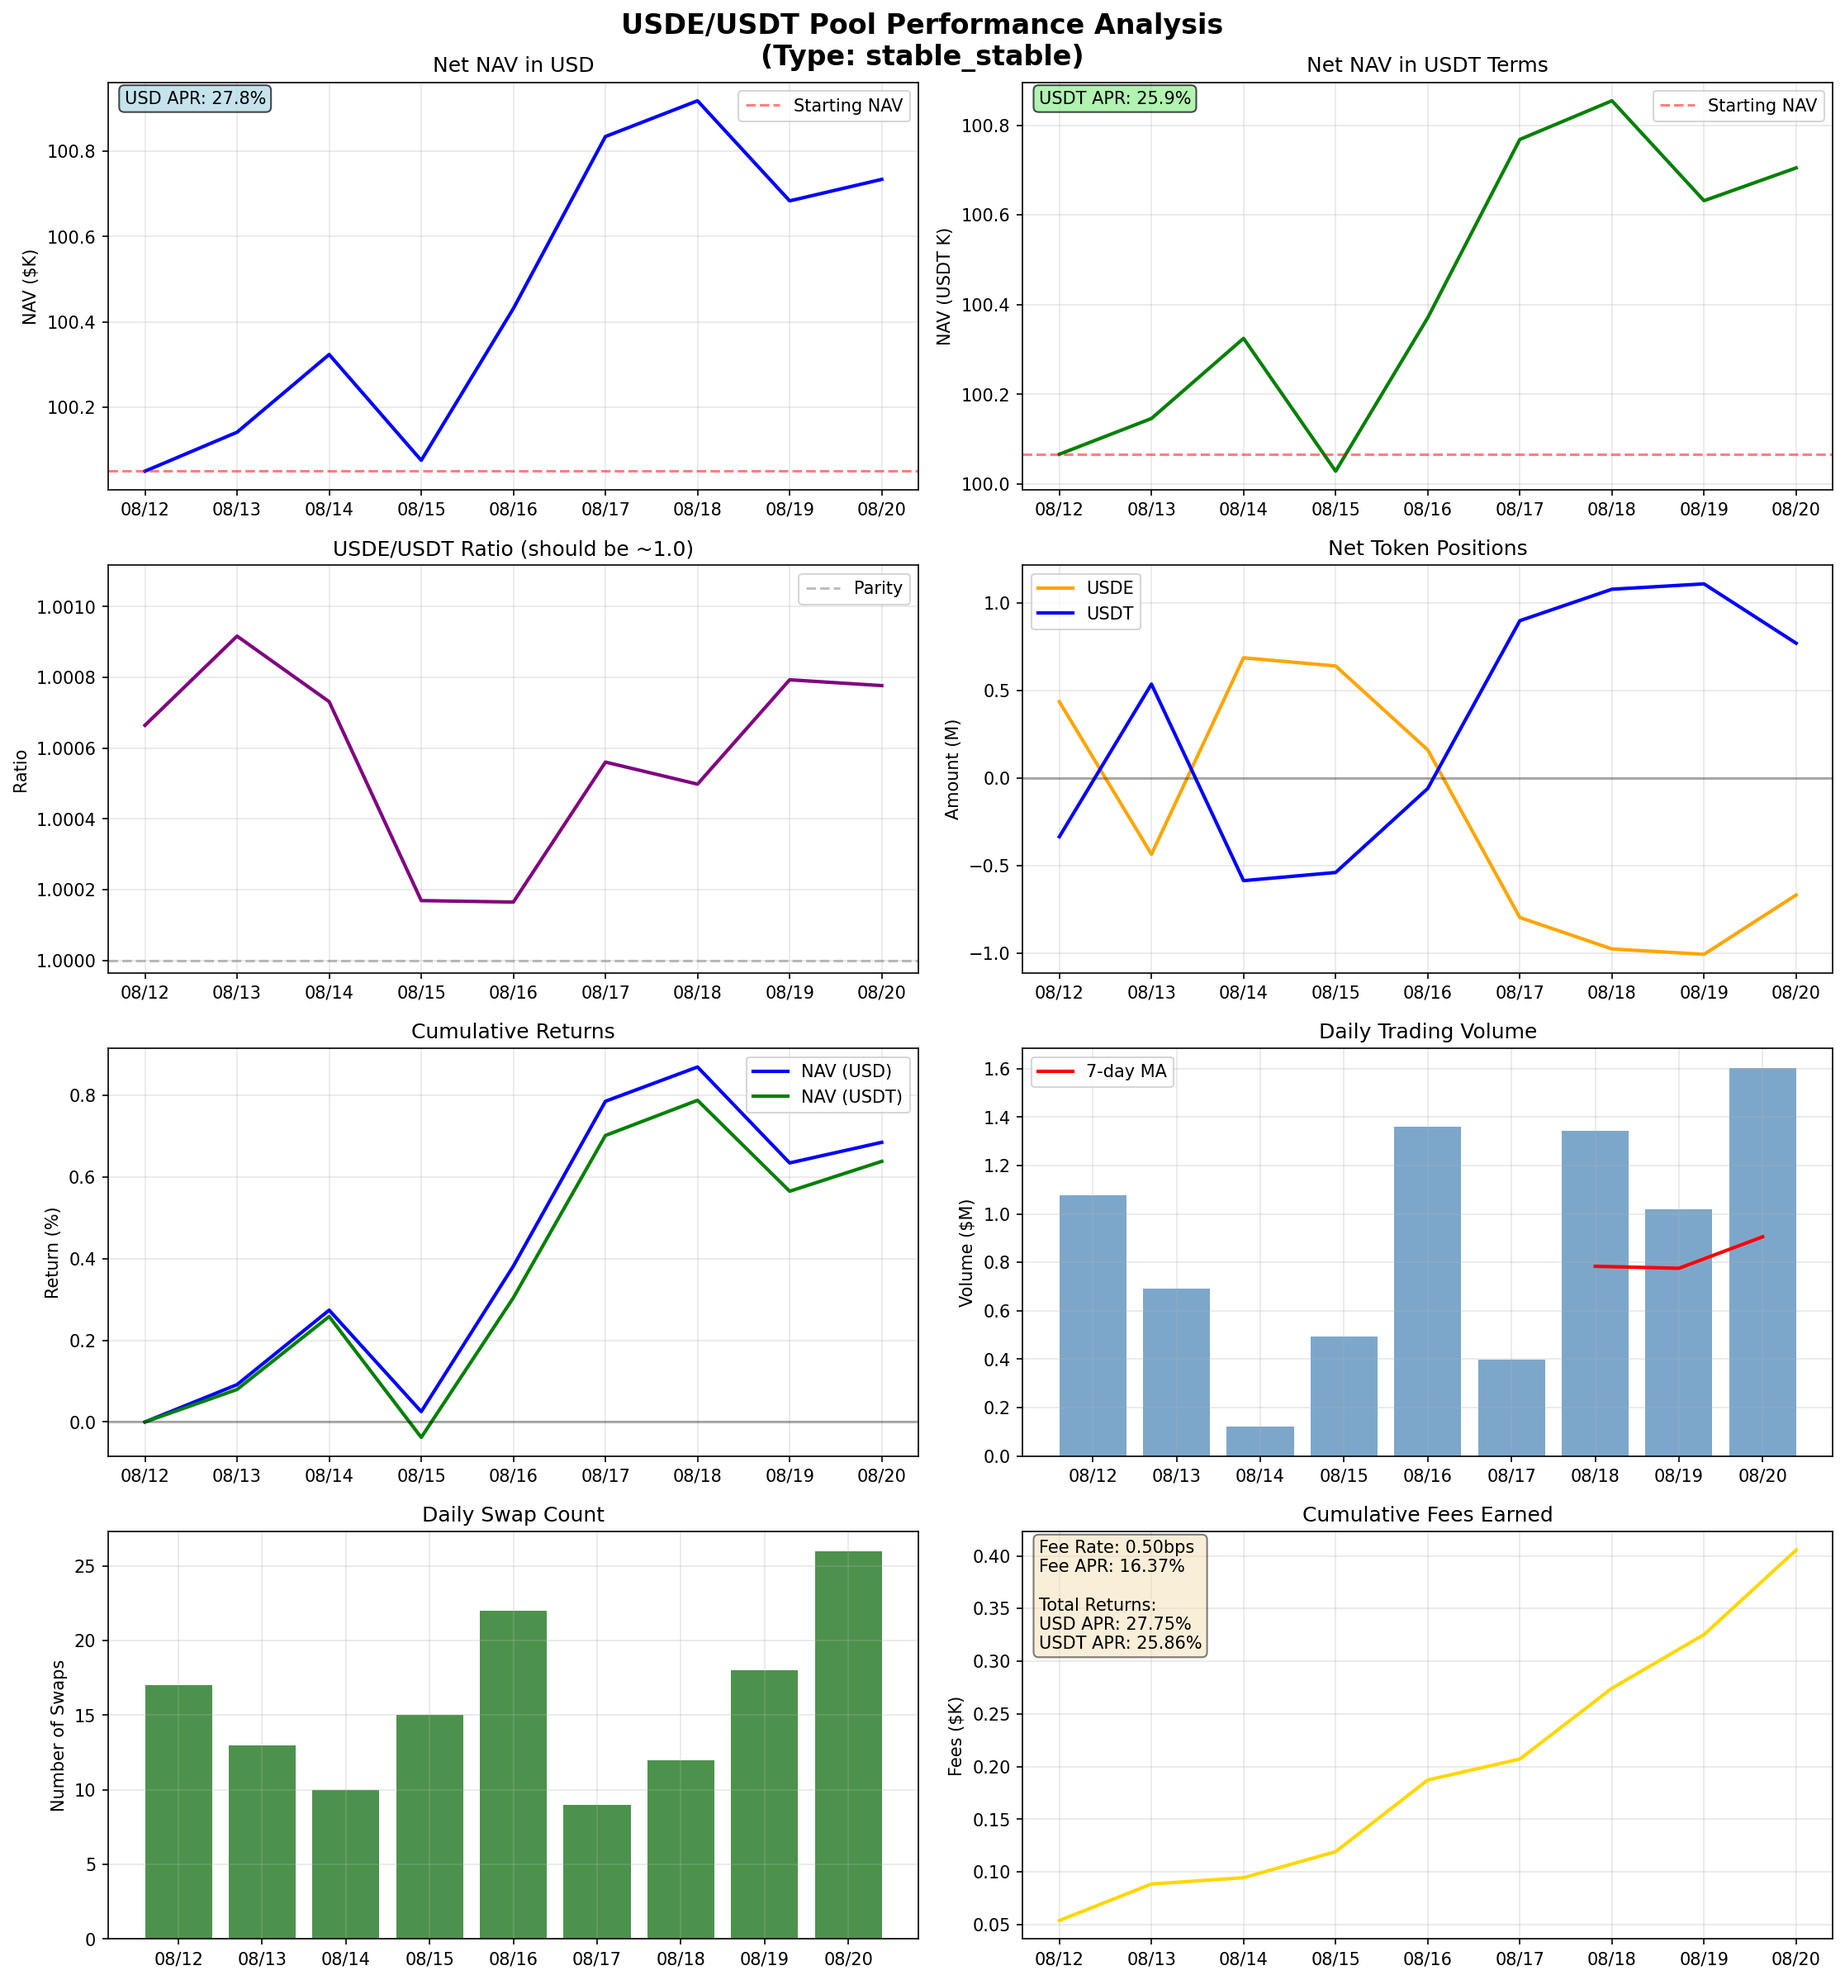
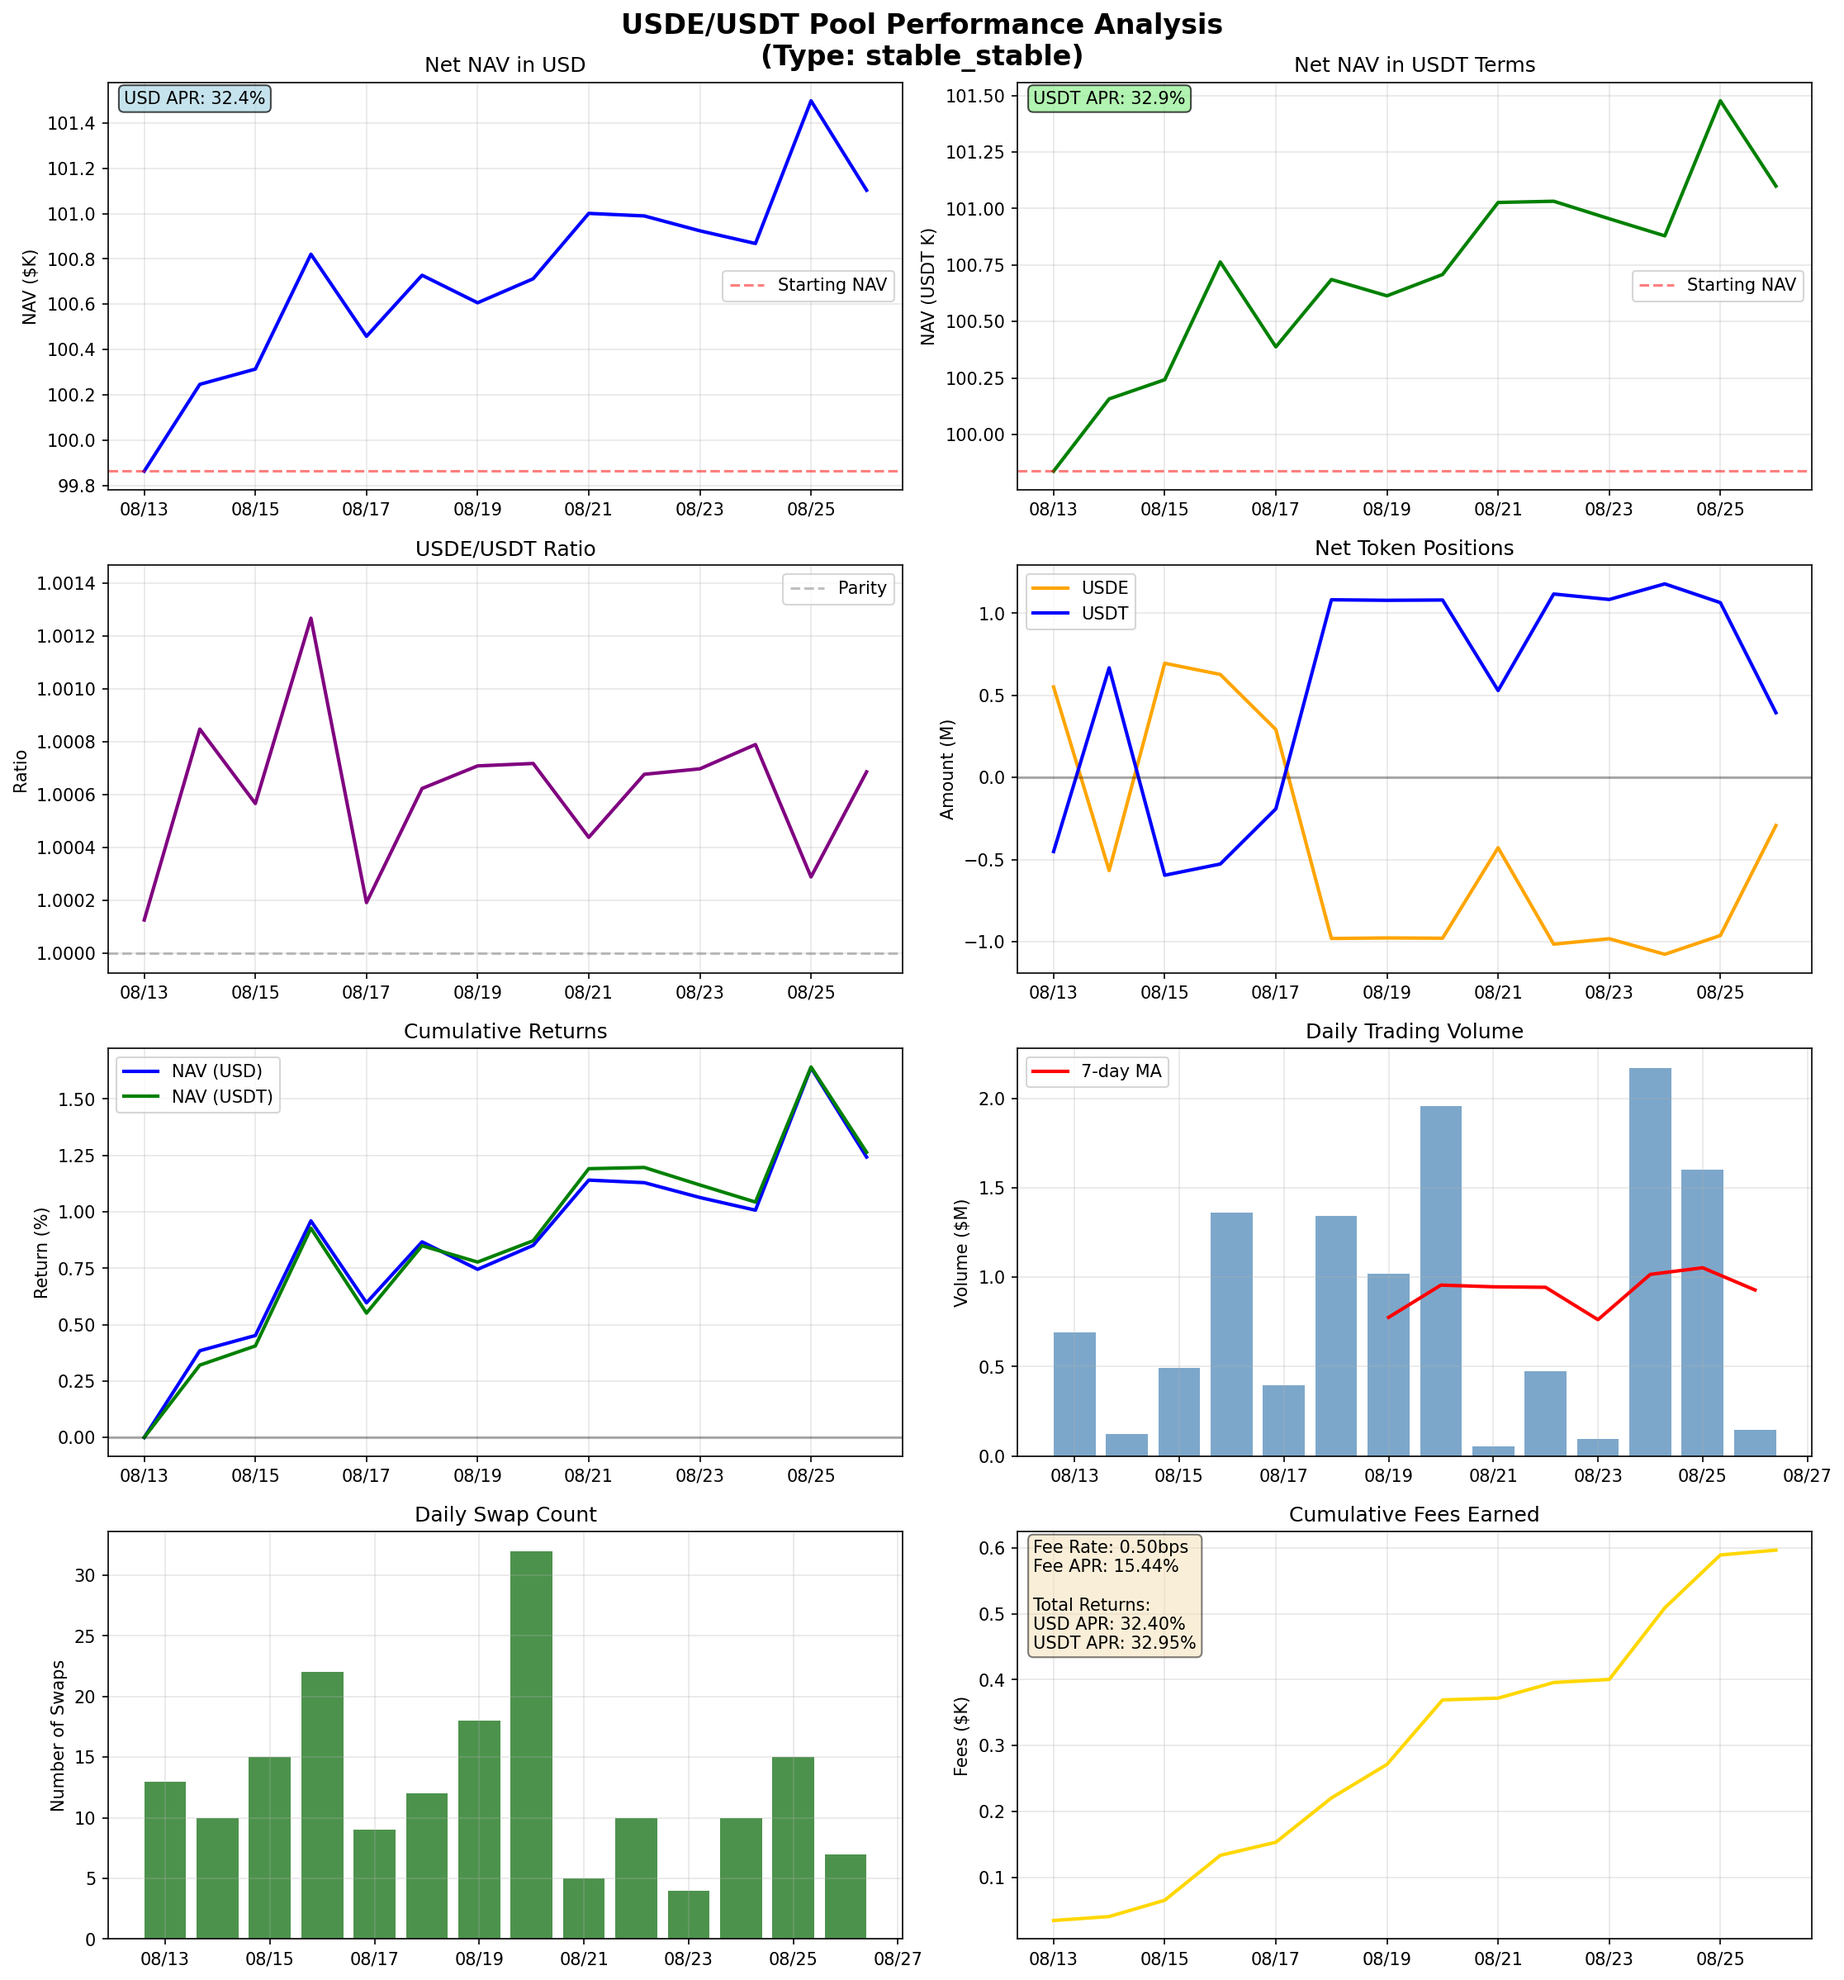
update USDE_USDT_analysis_0x7941

diff --git a/parse_and_graph_generic.py b/parse_and_graph_generic.py
@@ -117,7 +117,7 @@ class PairAnalyzer:
             base_config.update({
                 'peg_deviation': True,
                 'spread_analysis': True,
-                'price_ratio_label': f'{self.token0}/{self.token1} Ratio (should be ~1.0)'
+                'price_ratio_label': f'{self.token0}/{self.token1} Ratio'
             })
         elif self.pair_type == PairType.LST_BASE:
             base_config.update({
